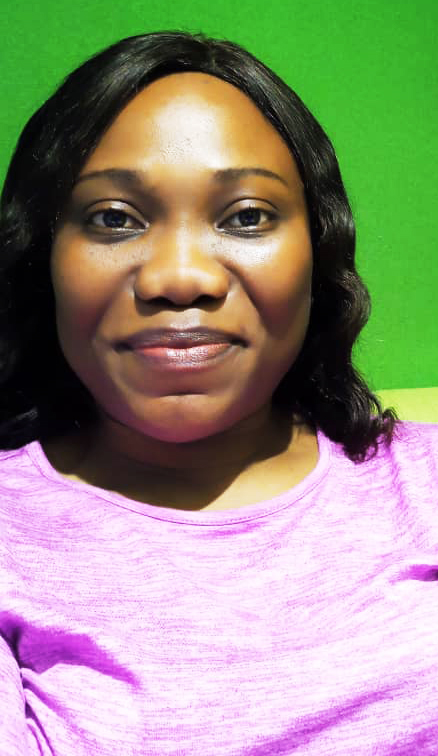
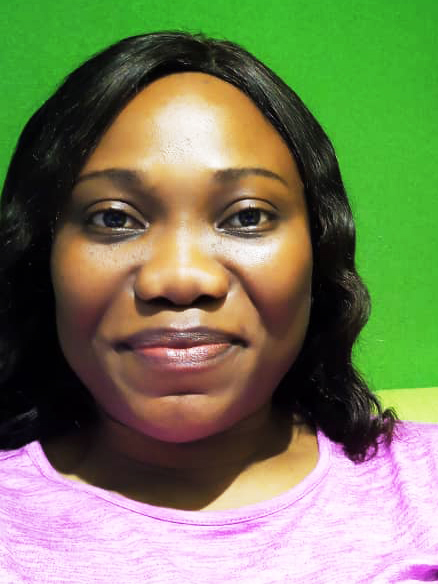
Endorsement update

diff --git a/src/components/layout/EndorsementSection.jsx b/src/components/layout/EndorsementSection.jsx
@@ -131,7 +131,7 @@ import styled from 'styled-components';
 import Slider from 'react-slick';
 import Endorsement from '../block/Endorsement';
 import Dp from '../../assets/Dp.jpg'
-import Funmi from '../../assets/Funmi2.jpg'
+import Funmi from '../../assets/Funmi.jpg'
 
 
 
@@ -144,7 +144,7 @@ const EndorsementSection = () => {
     },
 
     {
-      text: 'Lorem ipsum dolor sit amet consectetur adipisicing elit. Earum magni alias impedit recusandae eius qui voluptatem vitae ut asperiores ad, possimus sit consequatur quos facilis dicta. Ducimus quos eos dolore.',
+      text: 'Lorem ipsum dolor sit amet consectetur adipisicing elit. Earum magni alias impedit recusandae eius qui voluptatem vitae',
       endorserImage: Dp,
       endorserInfo: 'Mrs. Jane Doe PhD, MBA',
     },

diff --git a/src/components/block/Endorsement.jsx b/src/components/block/Endorsement.jsx
@@ -50,7 +50,7 @@ const EndorsementBox = styled.div`
 const EndorsementText = styled.div`
    margin-bottom: 20px;
    max-width: 600px;
-   font-weight: 400;
+   font-weight: 500;
 `
 
 const EndorserProfile = styled.div`
@@ -58,6 +58,7 @@ const EndorserProfile = styled.div`
    flex-direction: column;
    align-items: center;
    margin-top: 20px;
+   font-weight: 500;
 `
 
 const EndorserImage = styled.img`
